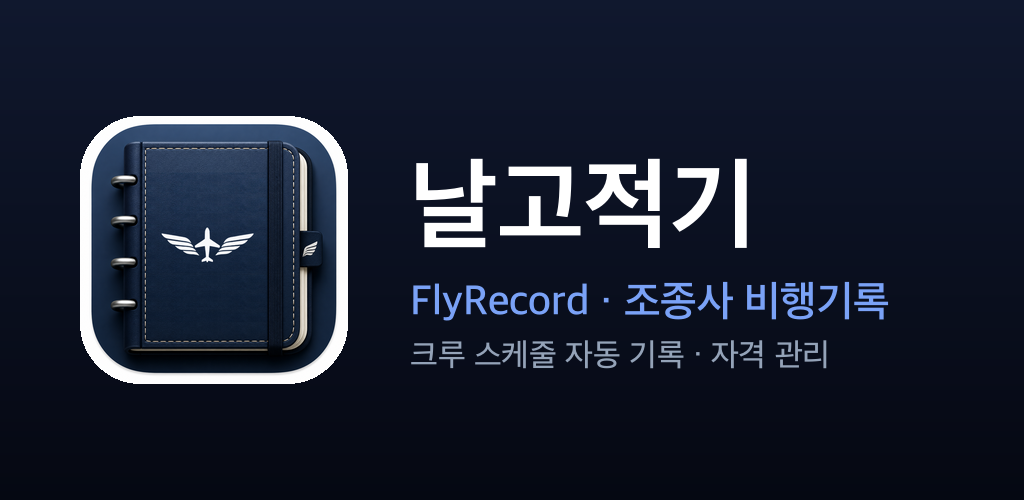
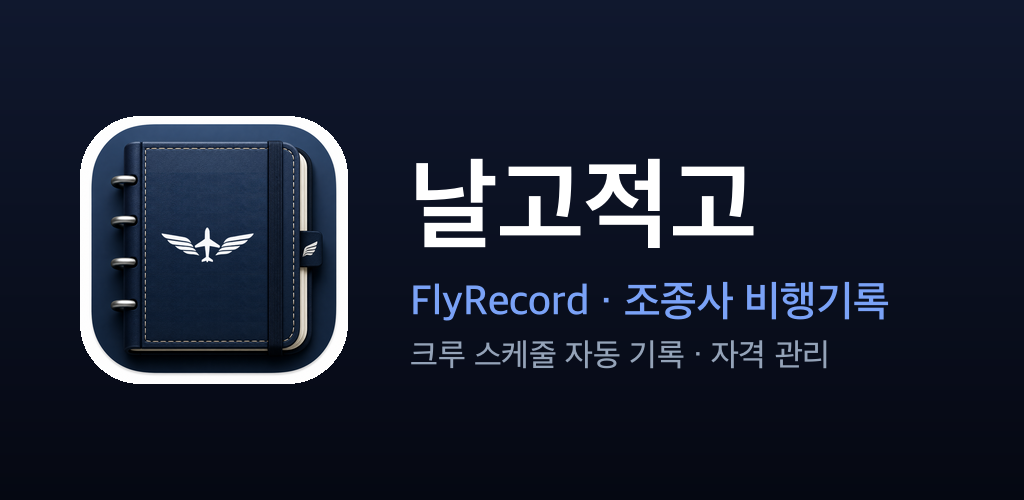
chore: 앱 이름을 '날고적고'로 확정
'날고적기'의 '적기'가 항공 맥락에서 敵機로도 읽히고, '-고 -고' 짝 리듬
(먹고 자고)이 이름으로 더 잘 붙는다. 영문명 FlyRecord는 그대로.

Changed region(s): [[0.6562, 0.3, 0.75, 0.51]]

diff --git a/www/privacy.html b/www/privacy.html
@@ -4,7 +4,7 @@
   <meta charset="UTF-8" />
   <meta name="viewport" content="width=device-width, initial-scale=1.0" />
   <meta name="theme-color" content="#0a1440" />
-  <title>개인정보처리방침 | 날고적기</title>
+  <title>개인정보처리방침 | 날고적고</title>
   <style>
     * { box-sizing:border-box; }
     body { margin:0; background:#f5f7fb; color:#172033; font-family:-apple-system,BlinkMacSystemFont,"Noto Sans KR","Segoe UI",sans-serif; line-height:1.7; }
@@ -28,14 +28,14 @@
 </head>
 <body>
 <main>
-  <div class="brand">날고적기 FLYLOG</div>
+  <div class="brand">날고적고 FLYLOG</div>
   <h1>개인정보처리방침</h1>
   <p class="sub">시행일: 2026년 8월 23일</p>
 
-  <div class="summary">날고적기는 서비스 제공에 필요한 최소한의 정보만 처리합니다. CrewConnex 아이디와 비밀번호 및 파싱을 위해 선택한 PDF·Excel·CSV 원본 파일은 날고적기 서비스 코드에 영구 저장하지 않습니다. 기존 경력 증빙 첨부파일은 사용자의 기기에만 저장되고 서버로 전송되지 않습니다.</div>
+  <div class="summary">날고적고는 서비스 제공에 필요한 최소한의 정보만 처리합니다. CrewConnex 아이디와 비밀번호 및 파싱을 위해 선택한 PDF·Excel·CSV 원본 파일은 날고적고 서비스 코드에 영구 저장하지 않습니다. 기존 경력 증빙 첨부파일은 사용자의 기기에만 저장되고 서버로 전송되지 않습니다.</div>
 
   <h2>1. 개인정보 처리자</h2>
-  <p>서비스명 및 운영자 표기: 날고적기<br />개인정보 관련 문의: <a href="mailto:info@rufnekcrew.com">info@rufnekcrew.com</a></p>
+  <p>서비스명 및 운영자 표기: 날고적고<br />개인정보 관련 문의: <a href="mailto:info@rufnekcrew.com">info@rufnekcrew.com</a></p>
 
   <h2>2. 처리하는 정보, 목적 및 보유기간</h2>
   <div class="table-wrap">
@@ -57,9 +57,9 @@
   <ul>
     <li>비행기록은 기기 로컬 저장소와 로그인 계정의 Firebase Firestore에 저장됩니다.</li>
     <li>PDF·Excel·CSV 파일은 사용자 기기에서 분석하며, 분석된 비행기록만 동기화 대상이 됩니다.</li>
-    <li>기존 경력 증빙 PDF·사진은 계정별로 구분된 기기 내부 저장소에만 보관되며 Firebase 또는 날고적기 서버에 업로드하지 않습니다.</li>
+    <li>기존 경력 증빙 PDF·사진은 계정별로 구분된 기기 내부 저장소에만 보관되며 Firebase 또는 날고적고 서버에 업로드하지 않습니다.</li>
     <li>전체 백업 파일은 사용자의 명시적인 요청으로 생성되어 사용자가 선택한 파일 앱·iCloud Drive·Google Drive 등에 전달됩니다. 해당 외부 보관 위치의 이용조건과 보안은 각 서비스 및 사용자의 관리에 따릅니다.</li>
-    <li>CrewConnex 로그인 정보는 HTTPS로 Cloudflare Worker에 전송되어 사용자가 요청한 조회에만 사용됩니다. 날고적기 코드는 해당 아이디와 비밀번호를 데이터베이스·파일·캐시에 영구 저장하지 않습니다.</li>
+    <li>CrewConnex 로그인 정보는 HTTPS로 Cloudflare Worker에 전송되어 사용자가 요청한 조회에만 사용됩니다. 날고적고 코드는 해당 아이디와 비밀번호를 데이터베이스·파일·캐시에 영구 저장하지 않습니다.</li>
   </ul>
 
   <h2>4. 외부 서비스 및 처리 위탁</h2>
@@ -77,10 +77,10 @@
   <p>위 서비스는 글로벌 인프라를 사용하므로 정보가 대한민국 외 지역에서 처리될 수 있습니다. 정식 출시 전 실제 Firebase 저장 리전과 각 제공자의 최신 처리 조건을 다시 확인해 본 방침을 구체화합니다.</p>
 
   <h2>5. 제3자 제공</h2>
-  <p>날고적기는 사용자의 개인정보를 판매하지 않습니다. 법령에 근거가 있거나 사용자가 별도로 동의한 경우를 제외하고, 서비스 제공 목적과 무관한 제3자에게 개인정보를 제공하지 않습니다. CrewConnex 자동 가져오기는 사용자가 입력한 계정으로 해당 제3자 서비스에 접속하는 기능이며 CrewConnex 자체 정책의 적용을 받을 수 있습니다.</p>
+  <p>날고적고는 사용자의 개인정보를 판매하지 않습니다. 법령에 근거가 있거나 사용자가 별도로 동의한 경우를 제외하고, 서비스 제공 목적과 무관한 제3자에게 개인정보를 제공하지 않습니다. CrewConnex 자동 가져오기는 사용자가 입력한 계정으로 해당 제3자 서비스에 접속하는 기능이며 CrewConnex 자체 정책의 적용을 받을 수 있습니다.</p>
 
   <h2>6. 파기 절차 및 방법</h2>
-  <p>사용자는 앱의 ‘계정 및 도움말 → 회원 탈퇴’에서 계정 삭제를 시작할 수 있습니다. 본인 확인 후 Firebase 로그인 계정, Firestore 비행기록, 현재 기기의 로컬 비행기록과 해당 계정의 기기 내 경력 증빙 첨부파일을 삭제합니다. 삭제한 기록은 복구할 수 없습니다. 사용자가 파일 앱이나 외부 클라우드에 별도로 보관한 백업 파일은 날고적기가 삭제할 수 없으므로 사용자가 직접 삭제해야 합니다.</p>
+  <p>사용자는 앱의 ‘계정 및 도움말 → 회원 탈퇴’에서 계정 삭제를 시작할 수 있습니다. 본인 확인 후 Firebase 로그인 계정, Firestore 비행기록, 현재 기기의 로컬 비행기록과 해당 계정의 기기 내 경력 증빙 첨부파일을 삭제합니다. 삭제한 기록은 복구할 수 없습니다. 사용자가 파일 앱이나 외부 클라우드에 별도로 보관한 백업 파일은 날고적고가 삭제할 수 없으므로 사용자가 직접 삭제해야 합니다.</p>
 
   <h2>7. 이용자의 권리</h2>
   <p>이용자는 자신의 비행기록을 조회·수정·삭제할 수 있고, 회원 탈퇴를 통해 계정과 관련 정보의 삭제를 요청할 수 있습니다. 개인정보 열람·정정·삭제·처리정지 또는 기타 문의는 아래 이메일로 접수할 수 있습니다.</p>
@@ -91,7 +91,7 @@
     <li>외부 통신에는 HTTPS를 사용합니다.</li>
     <li>로그아웃 시 기기의 계정별 로컬 비행기록을 제거해 다른 계정과 섞이지 않도록 합니다.</li>
     <li>기기 전용 경력 증빙은 로그인 계정 식별값으로 분리해 다른 계정 화면과 백업에 노출되지 않도록 합니다.</li>
-    <li>CrewConnex 비밀번호를 날고적기 데이터베이스에 저장하지 않습니다.</li>
+    <li>CrewConnex 비밀번호를 날고적고 데이터베이스에 저장하지 않습니다.</li>
   </ul>
 
   <h2>9. 방침 변경</h2>
@@ -99,12 +99,12 @@
 
   <h2>10. 문의 및 권리침해 구제</h2>
   <div class="contact">
-    날고적기 개인정보 문의: <a href="mailto:info@rufnekcrew.com">info@rufnekcrew.com</a><br />
+    날고적고 개인정보 문의: <a href="mailto:info@rufnekcrew.com">info@rufnekcrew.com</a><br />
     개인정보침해 신고센터: 국번 없이 118 · <a href="https://privacy.kisa.or.kr" target="_blank" rel="noopener">privacy.kisa.or.kr</a><br />
     개인정보분쟁조정위원회: 1833-6972 · <a href="https://www.kopico.go.kr" target="_blank" rel="noopener">kopico.go.kr</a>
   </div>
 
-  <footer>운영: 날고적기 · <a href="faq.html">FAQ</a> · <a href="terms.html">이용약관</a></footer>
+  <footer>운영: 날고적고 · <a href="faq.html">FAQ</a> · <a href="terms.html">이용약관</a></footer>
 </main>
 </body>
 </html>

diff --git a/www/index.html b/www/index.html
@@ -5,7 +5,7 @@
   <meta name="viewport" content="width=device-width, initial-scale=1.0, maximum-scale=1.0, user-scalable=no, viewport-fit=cover" />
   <meta name="apple-mobile-web-app-capable" content="yes" />
   <meta name="apple-mobile-web-app-status-bar-style" content="black-translucent" />
-  <meta name="apple-mobile-web-app-title" content="날고적기" />
+  <meta name="apple-mobile-web-app-title" content="날고적고" />
   <meta name="theme-color" content="#0a1440" />
   <link rel="manifest" href="manifest.json" />
   <!-- PWA Icons -->
@@ -17,7 +17,7 @@
         media="(device-width: 430px) and (device-height: 932px) and (-webkit-device-pixel-ratio: 3)" />
   <link rel="apple-touch-startup-image" href="splash-390x844.png"
         media="(device-width: 390px) and (device-height: 844px) and (-webkit-device-pixel-ratio: 3)" />
-  <title>날고적기</title>
+  <title>날고적고</title>
   <script src="https://cdnjs.cloudflare.com/ajax/libs/pdf.js/3.11.174/pdf.min.js"></script>
   <script src="https://cdnjs.cloudflare.com/ajax/libs/xlsx/0.18.5/xlsx.full.min.js"></script>
   <script src="logten-export.js"></script>
@@ -1417,7 +1417,7 @@
   <!-- 인앱 브라우저 경고 (카카오톡 등) -->
   <div id="inAppWarning" style="display:none;position:fixed;inset:0;background:#0a0e1a;z-index:9999;display:none;flex-direction:column;align-items:center;justify-content:center;padding:32px;text-align:center">
     <div style="font-size:48px;margin-bottom:16px">✈</div>
-    <div style="font-size:20px;font-weight:700;color:#f9fafb;margin-bottom:8px">날고적기</div>
+    <div style="font-size:20px;font-weight:700;color:#f9fafb;margin-bottom:8px">날고적고</div>
     <div style="font-size:14px;color:#9ca3af;margin-bottom:24px;line-height:1.7">
       카카오톡 내장 브라우저에서는<br>Google 로그인이 지원되지 않습니다.
     </div>
@@ -1443,7 +1443,7 @@
 
   <div class="auth-card" id="authCard">
     <div class="auth-logo">✈</div>
-    <div class="auth-title">날고적기</div>
+    <div class="auth-title">날고적고</div>
     <div class="auth-sub" id="authSub">이메일로 로그인하거나<br>Google 계정으로 빠르게 시작하세요.</div>
 
     <!-- 로그인 폼 -->
@@ -1493,7 +1493,7 @@
       <button id="drawerBtn" onclick="openDrawer()" aria-label="메뉴 열기">☰</button>
       <div class="logo-icon">✈</div>
       <div>
-        <div class="logo-text">날고적기</div>
+        <div class="logo-text">날고적고</div>
         <div class="logo-sub" id="headerSection">비행 기록</div>
       </div>
     </div>
@@ -1581,7 +1581,7 @@
     <div class="drawer-head">
       <div class="logo-icon">✈</div>
       <div>
-        <div class="drawer-head-name">날고적기</div>
+        <div class="drawer-head-name">날고적고</div>
         <div class="drawer-head-sub">FLYLOG · 조종사 비행기록</div>
       </div>
     </div>
@@ -1761,7 +1761,7 @@
             📂 파일 선택
           </button>
         </div>
-        <div style="margin-top:8px;font-size:11px;color:var(--text3)">ePaper PDF · flightHistory Excel/CSV · 날고적기 LogTen CSV</div>
+        <div style="margin-top:8px;font-size:11px;color:var(--text3)">ePaper PDF · flightHistory Excel/CSV · 날고적고 LogTen CSV</div>
       </div>
     </div>
 
@@ -2269,7 +2269,7 @@
       <button class="modal-close" onclick="closeInfoPage()">✕</button>
     </div>
     <div class="modal-body">
-      <iframe id="infoFrame" title="날고적기 안내"></iframe>
+      <iframe id="infoFrame" title="날고적고 안내"></iframe>
     </div>
   </div>
 </div>
@@ -2671,7 +2671,7 @@ function toggleTheme() {
 
 function openAccountMenu() {
   if (!currentUser) return;
-  const name = currentUser.displayName || '날고적기 사용자';
+  const name = currentUser.displayName || '날고적고 사용자';
   const email = currentUser.email || '';
   const avatar = document.getElementById('accountAvatar');
   document.getElementById('accountDisplayName').textContent = name;
@@ -4084,7 +4084,7 @@ async function exportFullBackup() {
     const file = new File([JSON.stringify(payload)], fileName, { type: 'application/json' });
 
     if (navigator.share && navigator.canShare && navigator.canShare({ files: [file] })) {
-      await navigator.share({ files: [file], title: '날고적기 전체 백업' });
+      await navigator.share({ files: [file], title: '날고적고 전체 백업' });
     } else {
       const url = URL.createObjectURL(file);
       const link = document.createElement('a');
@@ -5990,7 +5990,7 @@ async function loginCrewConnex() {
   try {
     const signedInUser = auth.currentUser;
     if (!signedInUser) {
-      throw new Error('날고적기에 로그인한 뒤 다시 시도해 주세요');
+      throw new Error('날고적고에 로그인한 뒤 다시 시도해 주세요');
     }
     const firebaseIdToken = await signedInUser.getIdToken();
     const resp = await fetch('https://crewconnex.tae26001.workers.dev', {

diff --git a/www/faq.html b/www/faq.html
@@ -4,7 +4,7 @@
   <meta charset="UTF-8" />
   <meta name="viewport" content="width=device-width, initial-scale=1.0" />
   <meta name="theme-color" content="#0a1440" />
-  <title>자주 묻는 질문 | 날고적기</title>
+  <title>자주 묻는 질문 | 날고적고</title>
   <style>
     * { box-sizing:border-box; }
     body { margin:0; background:#f5f7fb; color:#172033; font-family:-apple-system,BlinkMacSystemFont,"Noto Sans KR","Segoe UI",sans-serif; line-height:1.65; }
@@ -28,7 +28,7 @@
 <body>
 <main>
   <header>
-    <div class="brand">날고적기 FLYLOG</div>
+    <div class="brand">날고적고 FLYLOG</div>
     <h1>자주 묻는 질문</h1>
     <p class="sub">현재 서비스 동작과 정식 출시 정책을 기준으로 안내합니다.</p>
   </header>
@@ -70,7 +70,7 @@
 
   <details>
     <summary>비행기록은 어디에 저장되나요?</summary>
-    <div class="answer"><p>비행기록과 기존 경력 수치는 기기 내부 저장소와 로그인 계정의 Firebase Firestore에 저장됩니다. 파싱을 위해 선택한 PDF·Excel·CSV 원본과 기존 경력에 첨부한 증빙 PDF·사진은 날고적기 서버에 업로드하지 않습니다. 경력 증빙 첨부파일은 선택한 휴대폰 안에만 저장됩니다.</p></div>
+    <div class="answer"><p>비행기록과 기존 경력 수치는 기기 내부 저장소와 로그인 계정의 Firebase Firestore에 저장됩니다. 파싱을 위해 선택한 PDF·Excel·CSV 원본과 기존 경력에 첨부한 증빙 PDF·사진은 날고적고 서버에 업로드하지 않습니다. 경력 증빙 첨부파일은 선택한 휴대폰 안에만 저장됩니다.</p></div>
   </details>
 
   <details>
@@ -90,7 +90,7 @@
 
   <details>
     <summary>이 앱의 기록을 공식 로그북으로 바로 제출할 수 있나요?</summary>
-    <div class="answer"><p>날고적기는 기록과 계산을 돕는 도구입니다. 항공사·관할 기관·채용기관이 요구하는 형식과 인정 기준은 다를 수 있으므로 제출 전 원본 자료와 관련 규정을 사용자가 직접 확인해야 합니다.</p></div>
+    <div class="answer"><p>날고적고는 기록과 계산을 돕는 도구입니다. 항공사·관할 기관·채용기관이 요구하는 형식과 인정 기준은 다를 수 있으므로 제출 전 원본 자료와 관련 규정을 사용자가 직접 확인해야 합니다.</p></div>
   </details>
 
   <details>
@@ -98,9 +98,9 @@
     <div class="answer"><p>비행 날짜·편명, 발생한 화면과 상황을 적어 <a href="mailto:info@rufnekcrew.com?subject=Pilot%20Logbook%20문의">info@rufnekcrew.com</a>으로 보내주세요. 비밀번호나 인증번호는 이메일에 포함하지 마세요.</p></div>
   </details>
 
-  <div class="notice">CrewConnex는 제3자 서비스입니다. 날고적기는 사용자가 제공한 로그인 정보로 일회성 조회를 수행하며 아이디와 비밀번호를 서비스 코드에 영구 저장하지 않습니다.</div>
+  <div class="notice">CrewConnex는 제3자 서비스입니다. 날고적고는 사용자가 제공한 로그인 정보로 일회성 조회를 수행하며 아이디와 비밀번호를 서비스 코드에 영구 저장하지 않습니다.</div>
 
-  <footer>시행일: 2026년 8월 23일 · 운영: 날고적기 · <a href="privacy.html">개인정보처리방침</a> · <a href="terms.html">이용약관</a></footer>
+  <footer>시행일: 2026년 8월 23일 · 운영: 날고적고 · <a href="privacy.html">개인정보처리방침</a> · <a href="terms.html">이용약관</a></footer>
 </main>
 </body>
 </html>

diff --git a/www/terms.html b/www/terms.html
@@ -4,7 +4,7 @@
   <meta charset="UTF-8" />
   <meta name="viewport" content="width=device-width, initial-scale=1.0" />
   <meta name="theme-color" content="#0a1440" />
-  <title>이용약관 | 날고적기</title>
+  <title>이용약관 | 날고적고</title>
   <style>
     * { box-sizing:border-box; }
     body { margin:0; background:#f5f7fb; color:#172033; font-family:-apple-system,BlinkMacSystemFont,"Noto Sans KR","Segoe UI",sans-serif; line-height:1.72; }
@@ -25,7 +25,7 @@
 </head>
 <body>
 <main>
-  <div class="brand">날고적기 FLYLOG</div>
+  <div class="brand">날고적고 FLYLOG</div>
   <h1>이용약관</h1>
   <p class="sub">시행일: 2026년 8월 23일</p>
 
@@ -35,7 +35,7 @@
   </div>
 
   <h2>제1조 목적</h2>
-  <p>이 약관은 날고적기가 제공하는 전자 비행기록 작성, CrewConnex 자동 가져오기, 통계, 동기화 및 관련 기능의 이용 조건과 운영자와 이용자의 권리·의무를 정합니다.</p>
+  <p>이 약관은 날고적고가 제공하는 전자 비행기록 작성, CrewConnex 자동 가져오기, 통계, 동기화 및 관련 기능의 이용 조건과 운영자와 이용자의 권리·의무를 정합니다.</p>
 
   <h2>제2조 서비스 내용</h2>
   <ul>
@@ -57,13 +57,13 @@
 
   <h2>제4조 비행기록과 이용자 책임</h2>
   <div class="warning">
-    <p>날고적기는 기록과 계산을 돕는 보조 도구이며 항공사, 항공당국 또는 채용기관이 발행·인증하는 공식 기록이 아닙니다. 자동 파싱, 시간 계산 및 인정시간 결과는 원본 자료와 다를 수 있습니다.</p>
+    <p>날고적고는 기록과 계산을 돕는 보조 도구이며 항공사, 항공당국 또는 채용기관이 발행·인증하는 공식 기록이 아닙니다. 자동 파싱, 시간 계산 및 인정시간 결과는 원본 자료와 다를 수 있습니다.</p>
   </div>
   <p>이용자는 저장 또는 제출 전에 OUT/IN, 비행시간, 역할, 계기·야간시간, 착륙 및 인정시간을 원본 자료와 관련 규정에 따라 직접 확인해야 합니다. 특정 기관의 인정 여부는 해당 기관의 기준을 따릅니다.</p>
 
   <h2>제5조 CrewConnex 및 제3자 서비스</h2>
   <ol>
-    <li>CrewConnex는 날고적기가 운영하는 서비스가 아닙니다.</li>
+    <li>CrewConnex는 날고적고가 운영하는 서비스가 아닙니다.</li>
     <li>자동 가져오기는 이용자가 적법하게 사용할 권한이 있는 자신의 계정으로만 실행해야 합니다.</li>
     <li>제3자 서비스의 장애, 화면 구조·정책 변경 또는 접근 제한으로 자동 가져오기가 일시 중단되거나 일부 정보가 누락될 수 있습니다.</li>
     <li>이용자는 소속 회사의 정보보안 정책과 CrewConnex 이용 조건을 확인하고 준수해야 합니다.</li>
@@ -105,7 +105,7 @@
   <h2>제13조 문의</h2>
   <p>서비스 및 약관 문의: <a href="mailto:info@rufnekcrew.com">info@rufnekcrew.com</a></p>
 
-  <footer>운영: 날고적기 · <a href="faq.html">FAQ</a> · <a href="privacy.html">개인정보처리방침</a></footer>
+  <footer>운영: 날고적고 · <a href="faq.html">FAQ</a> · <a href="privacy.html">개인정보처리방침</a></footer>
 </main>
 </body>
 </html>

diff --git a/index.html b/index.html
@@ -5,7 +5,7 @@
   <meta name="viewport" content="width=device-width, initial-scale=1.0, maximum-scale=1.0, user-scalable=no" />
   <meta name="apple-mobile-web-app-capable" content="yes" />
   <meta name="apple-mobile-web-app-status-bar-style" content="black-translucent" />
-  <meta name="apple-mobile-web-app-title" content="날고적기" />
+  <meta name="apple-mobile-web-app-title" content="날고적고" />
   <meta name="theme-color" content="#0a1440" />
   <link rel="manifest" href="/manifest.json" />
   <!-- PWA Icons -->
@@ -17,7 +17,7 @@
         media="(device-width: 430px) and (device-height: 932px) and (-webkit-device-pixel-ratio: 3)" />
   <link rel="apple-touch-startup-image" href="/splash-390x844.png"
         media="(device-width: 390px) and (device-height: 844px) and (-webkit-device-pixel-ratio: 3)" />
-  <title>날고적기</title>
+  <title>날고적고</title>
   <script src="https://cdnjs.cloudflare.com/ajax/libs/pdf.js/3.11.174/pdf.min.js"></script>
   <script src="https://cdnjs.cloudflare.com/ajax/libs/xlsx/0.18.5/xlsx.full.min.js"></script>
   <!-- Firebase v10 compat SDK -->
@@ -1948,7 +1948,7 @@ function printMonth(ym) {
 
   const printDate = new Date().toLocaleDateString('en-GB', {day:'2-digit', month:'short', year:'numeric'});
   const html = `<!DOCTYPE html><html lang="en"><head><meta charset="UTF-8">
-  <title>날고적기 - ${label}</title>
+  <title>날고적고 - ${label}</title>
   <style>
     body { font-family: Arial, sans-serif; font-size: 11px; margin: 20px; color: #111; }
     h2 { font-size: 16px; margin-bottom: 4px; }
@@ -1961,7 +1961,7 @@ function printMonth(ym) {
     .summary b { font-size: 14px; color: #1e3a5f; }
     @media print { body { margin: 10mm; } }
   </style></head><body>
-  <h2>날고적기 — ${label}</h2>
+  <h2>날고적고 — ${label}</h2>
   <div class="subtitle">Kyungtae Kang · Printed: ${printDate}</div>
   <table>
     <thead><tr>

diff --git a/workers/crewconnex.test.js b/workers/crewconnex.test.js
@@ -178,7 +178,7 @@ test('Automatic import usage key is stable and identifies a unique flight', () =
   );
 });
 
-test('Apple subscription selection only accepts active 날고적기 products', () => {
+test('Apple subscription selection only accepts active 날고적고 products', () => {
   const now = Date.now();
   const jws = payload => `header.${Buffer.from(JSON.stringify(payload)).toString('base64url')}.signature`;
   const active = selectActiveAppleSubscription({

diff --git a/store-screenshots/play-listing.md b/store-screenshots/play-listing.md
@@ -1,4 +1,4 @@
-# Google Play 등록 자료 (날고적기 / FlyRecord)
+# Google Play 등록 자료 (날고적고 / FlyRecord)
 
 패키지명 `com.rufnek.pilotlogbook` · 첫 출시 (versionCode 1)
 
@@ -16,13 +16,13 @@
 
 ## 스토어 등록정보
 
-**앱 이름** 날고적기 — 조종사 비행기록
+**앱 이름** 날고적고 — 조종사 비행기록
 
 **간단한 설명** (80자 이내)
 > 조종사를 위한 전자 비행기록부. 스케줄 자동 기록, 인정시간 계산, 자격 관리까지.
 
 **자세한 설명**
-> 날고적기는 조종사가 직접 쓰는 전자 비행기록부입니다.
+> 날고적고는 조종사가 직접 쓰는 전자 비행기록부입니다.
 >
 > • 비행기록 — 편명·구간·시간·착륙유형(오토/CAT II·III)을 회사 제출 양식에 맞춰 기록합니다.
 > • 자동 가져오기 — 크루 스케줄에서 최근 비행을 불러와 편조까지 함께 저장합니다. (제주항공 CrewConnex 지원)
@@ -35,7 +35,7 @@
 > 자동 가져오기는 처음 50편까지 무료이며, 이후에는 구독으로 무제한 이용할 수 있습니다.
 > 수동 입력, 엑셀 가져오기, 통계, 자격 관리 등 나머지 기능은 구독 없이 모두 사용할 수 있습니다.
 >
-> 날고적기는 기록과 계산을 돕는 보조 도구이며, 항공사·항공당국이 발행하는 공식 기록이 아닙니다.
+> 날고적고는 기록과 계산을 돕는 보조 도구이며, 항공사·항공당국이 발행하는 공식 기록이 아닙니다.
 
 **카테고리** 생산성 (또는 여행) · **광고 없음** · **타겟 연령** 18세 이상
 
@@ -124,7 +124,7 @@ keytool -list -v -keystore ~/flylog-upload.jks -alias flylog | grep SHA1
 ## ③ Play Console — 앱 만들고 서비스 계정 키 받기
 
 1. [Play Console](https://play.google.com/console) → **앱 만들기**
-   - 앱 이름 `날고적기`, 언어 한국어, **앱**, **유료 또는 무료 → 무료**
+   - 앱 이름 `날고적고`, 언어 한국어, **앱**, **유료 또는 무료 → 무료**
 2. 좌측 **설정 → API 액세스** → **새 서비스 계정 만들기** → 구글 클라우드 콘솔로 이동
    - 서비스 계정 만들기 → 이름 아무거나 → 완료
    - 만든 계정 → **키 → 키 추가 → 새 키 만들기 → JSON** → 파일 다운로드

diff --git a/CLAUDE.md b/CLAUDE.md
@@ -1,4 +1,4 @@
-# 날고적기 (FlyRecord) — Claude Code 컨텍스트
+# 날고적고 (FlyRecord) — Claude Code 컨텍스트
 
 ## 프로젝트 개요
 - 제주항공 기장용 파일럿 로그북 PWA + Android/iOS 앱
